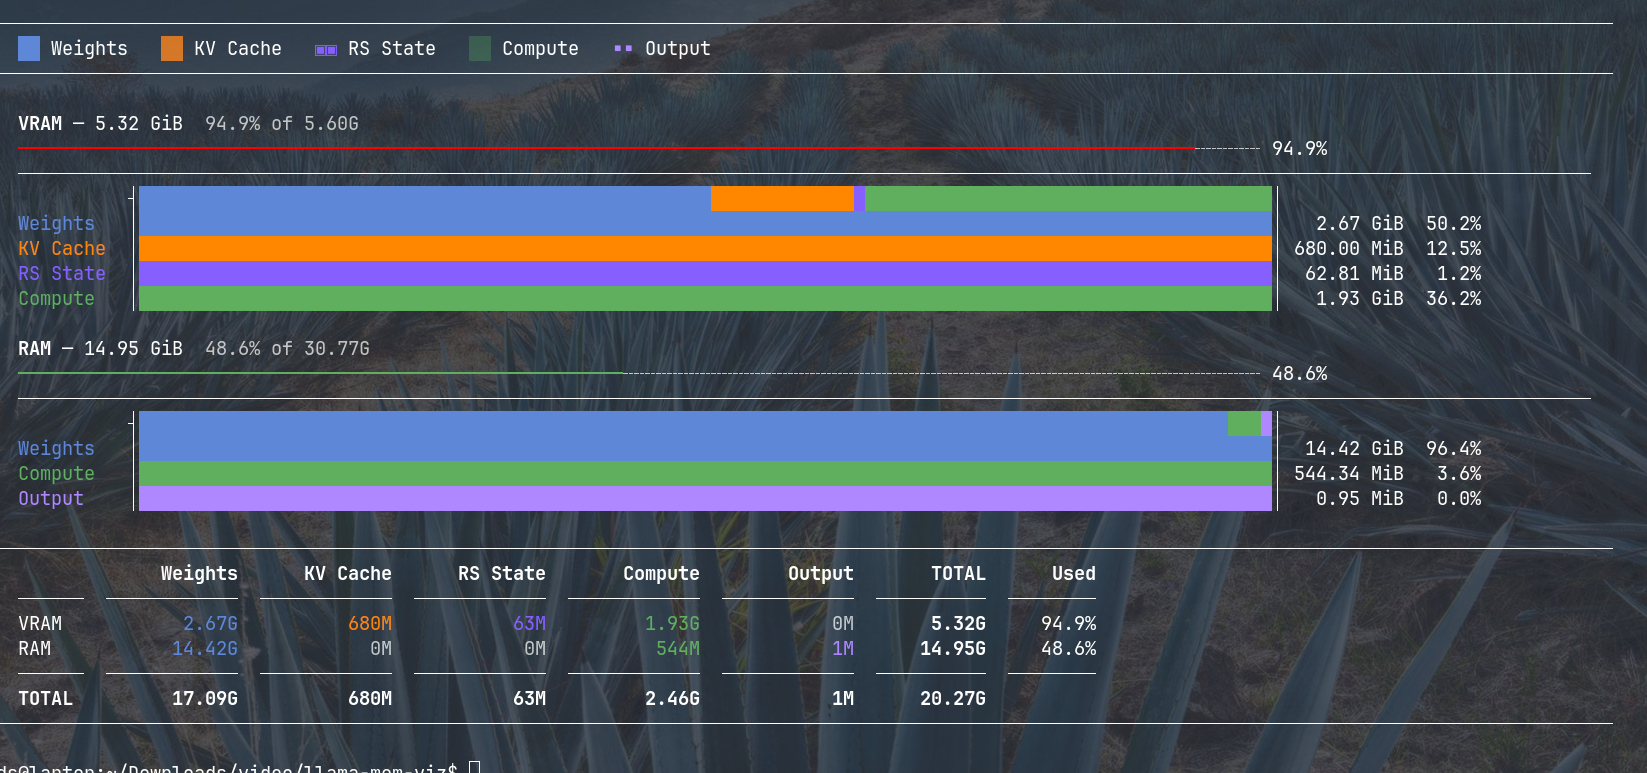
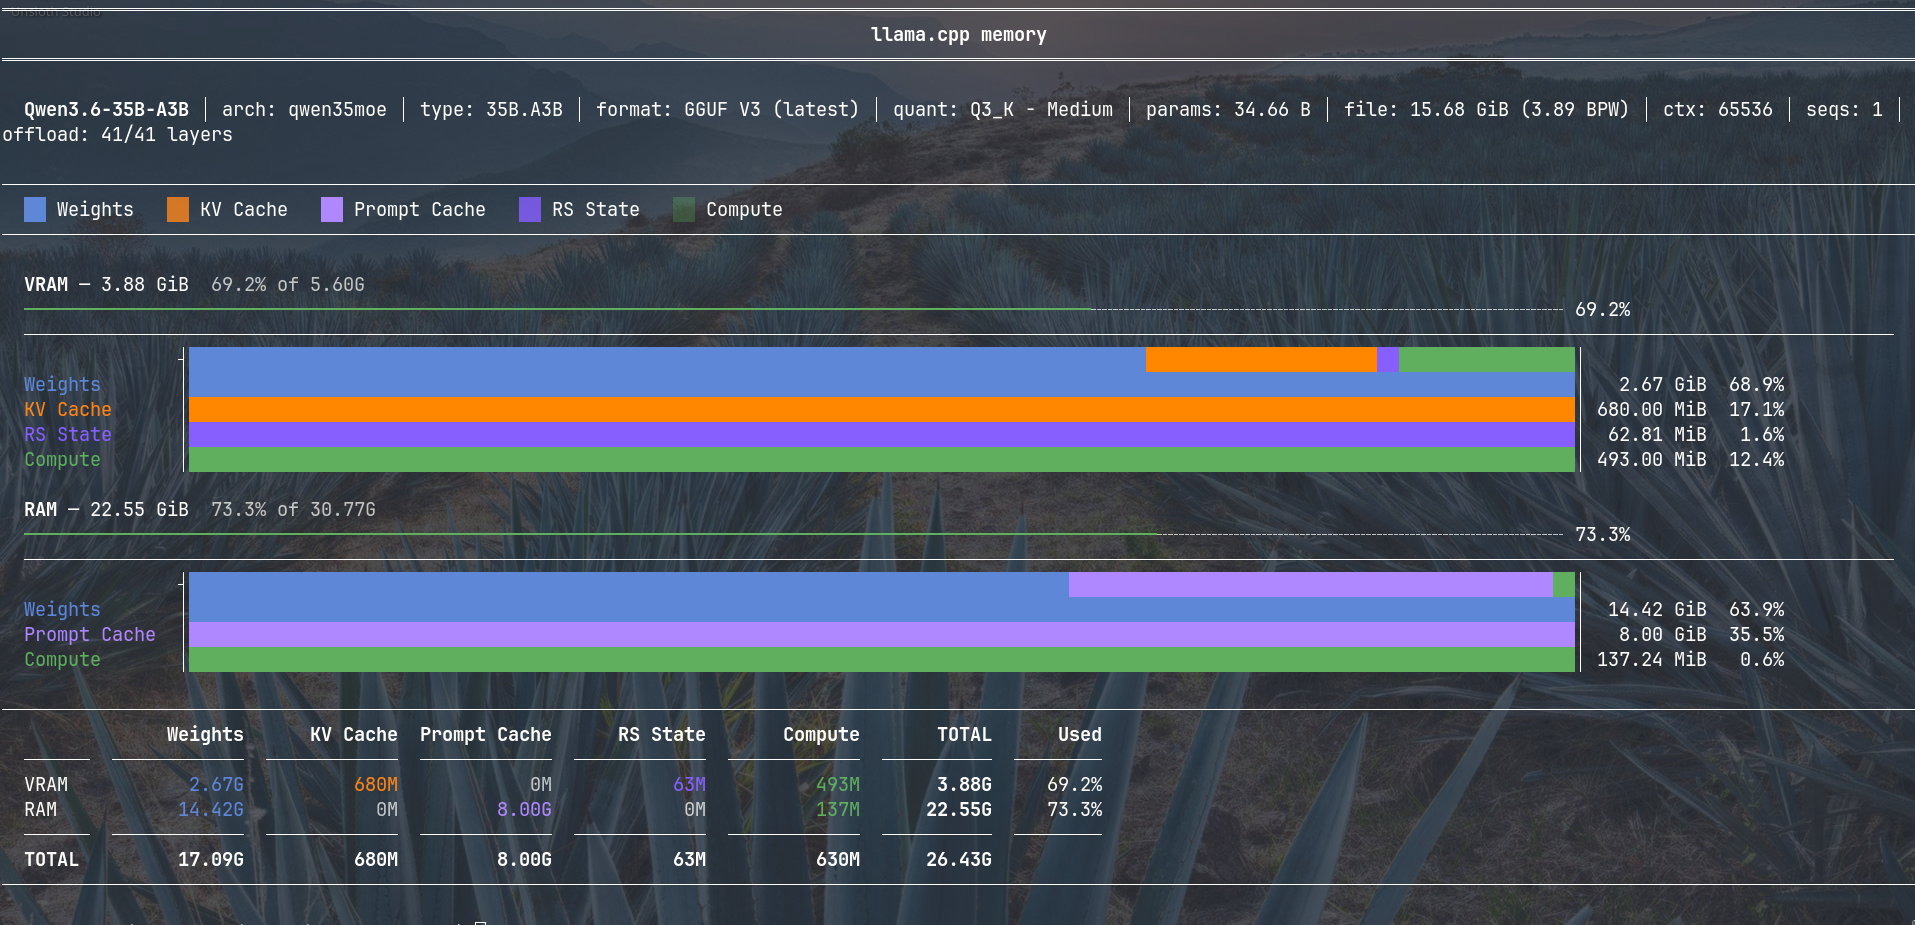
Visualize prompt cache

diff --git a/llama-mem-viz.py b/llama-mem-viz.py
@@ -65,11 +65,12 @@ COMPONENT_ORDER = [
 COMPONENT_META = {
     "weights":         {"label": "Weights",      "color": 68,  "char": "█"},
     "kv_cache":        {"label": "KV Cache",     "color": 208, "char": "▓"},
-    "prompt_cache":    {"label": "Prompt Cache", "color": 141, "char": "▞"},
-    "recurrent_state": {"label": "RS State",     "color": 99,  "char": "▣"},
+    "prompt_cache":    {"label": "Prompt Cache", "color": 141, "char": "█"},
+    "recurrent_state": {"label": "RS State",     "color": 99,  "char": "▓"},
     "compute_pp":      {"label": "Compute PP",   "color": 160, "char": "▒"},
     "compute":         {"label": "Compute",      "color": 71,  "char": "░"},
 }
+
 
 KIND_TO_COMPONENT = {
     "model":      "weights",